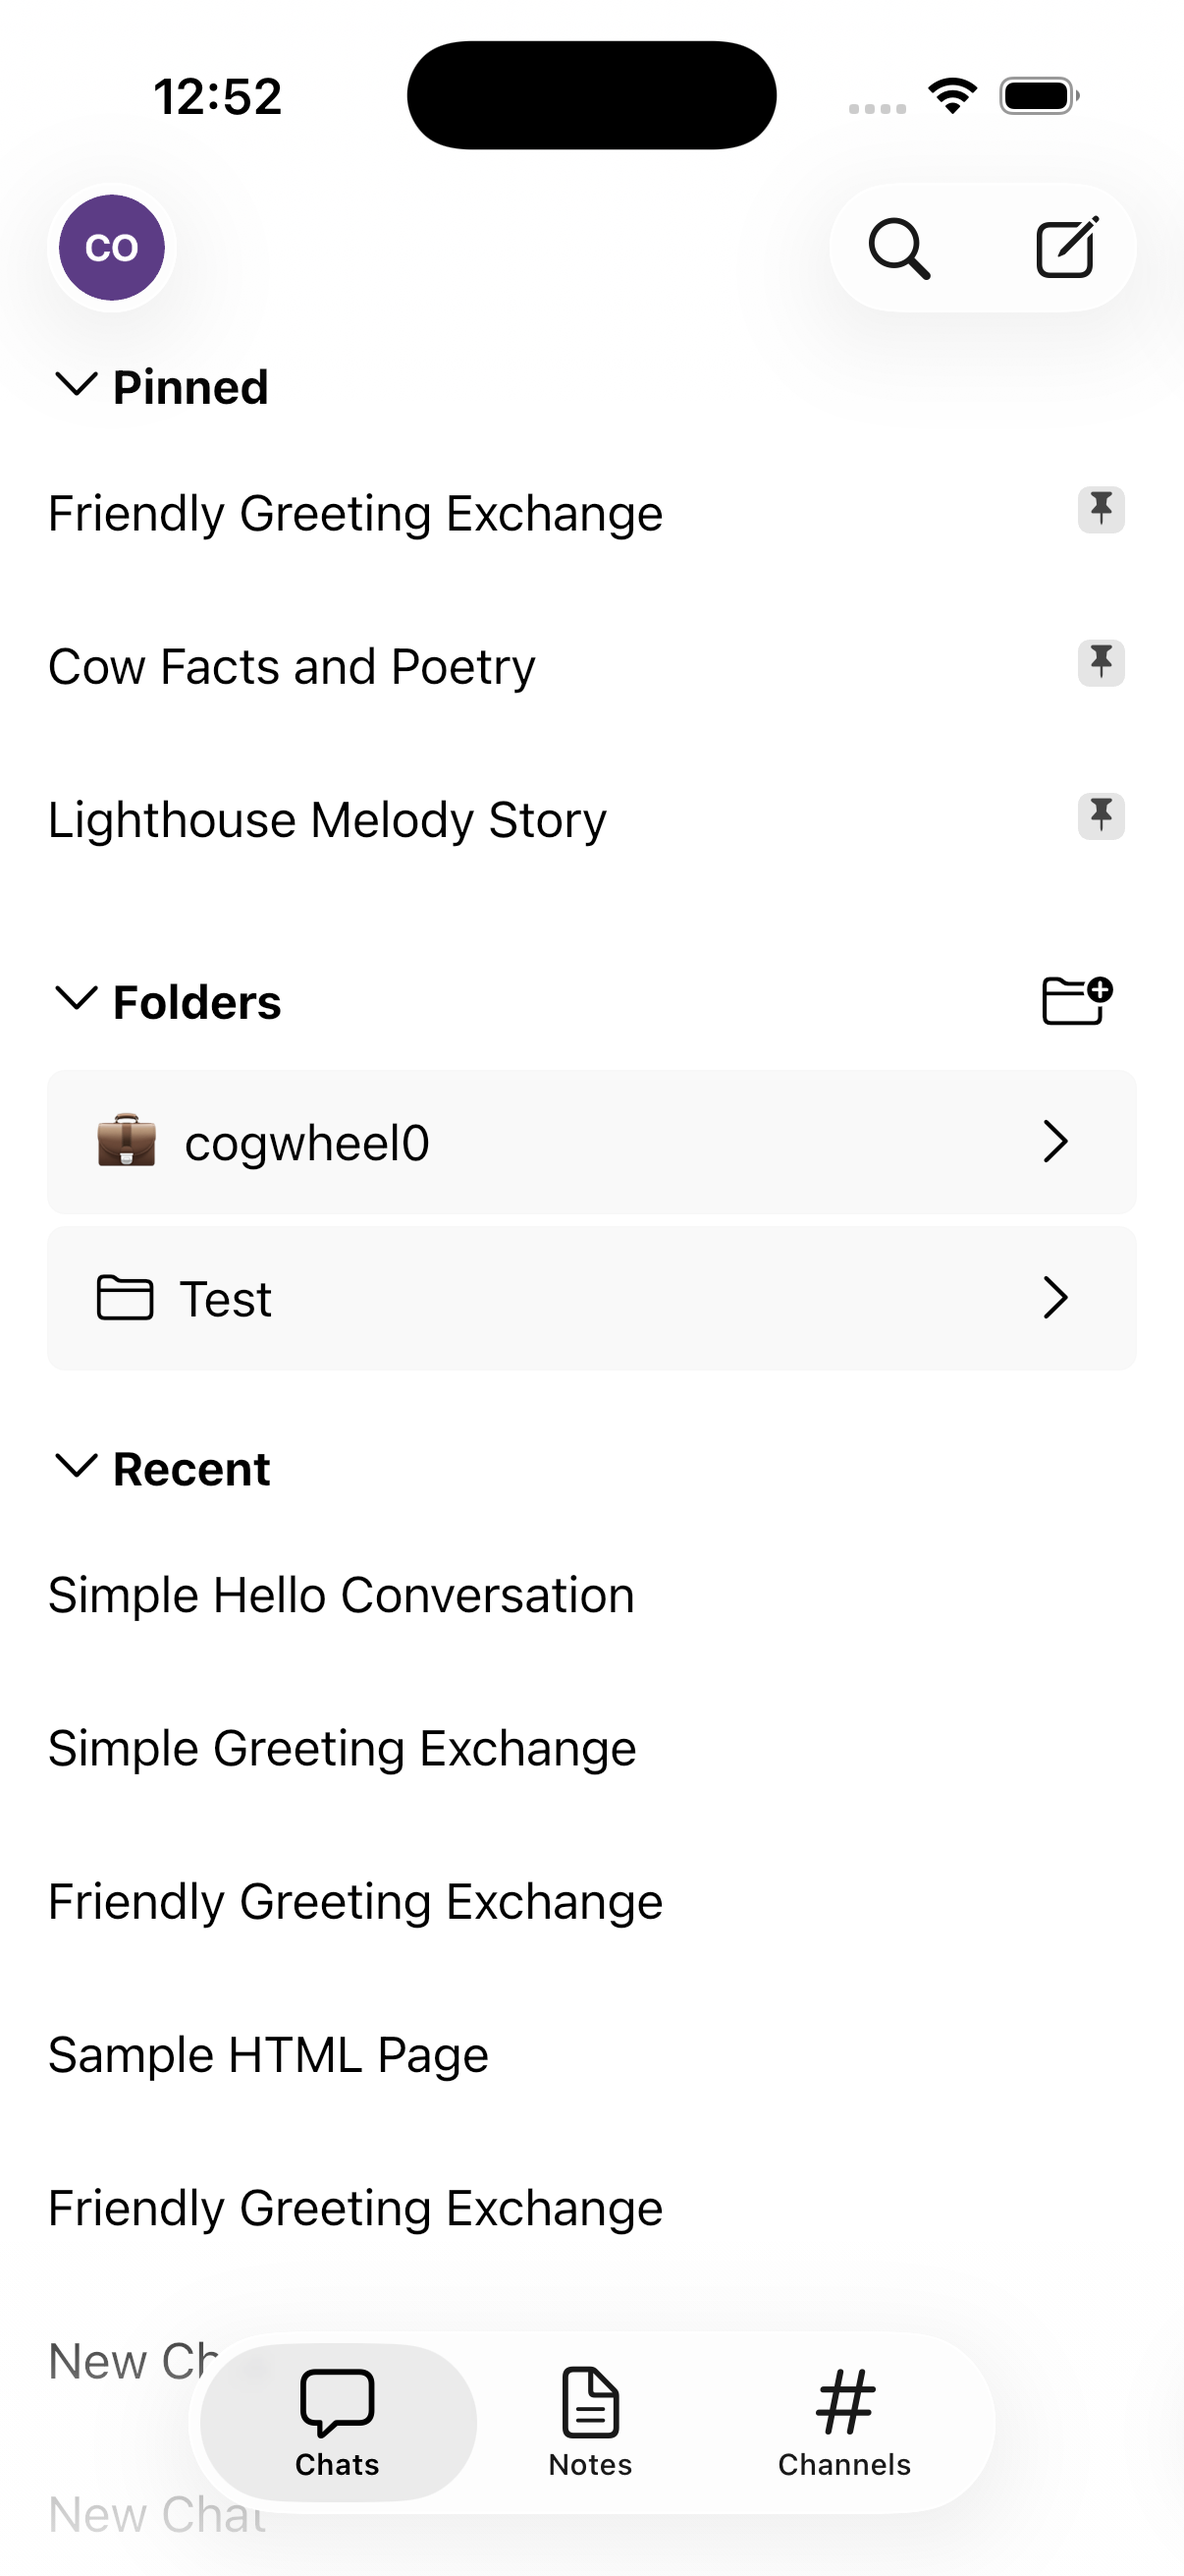
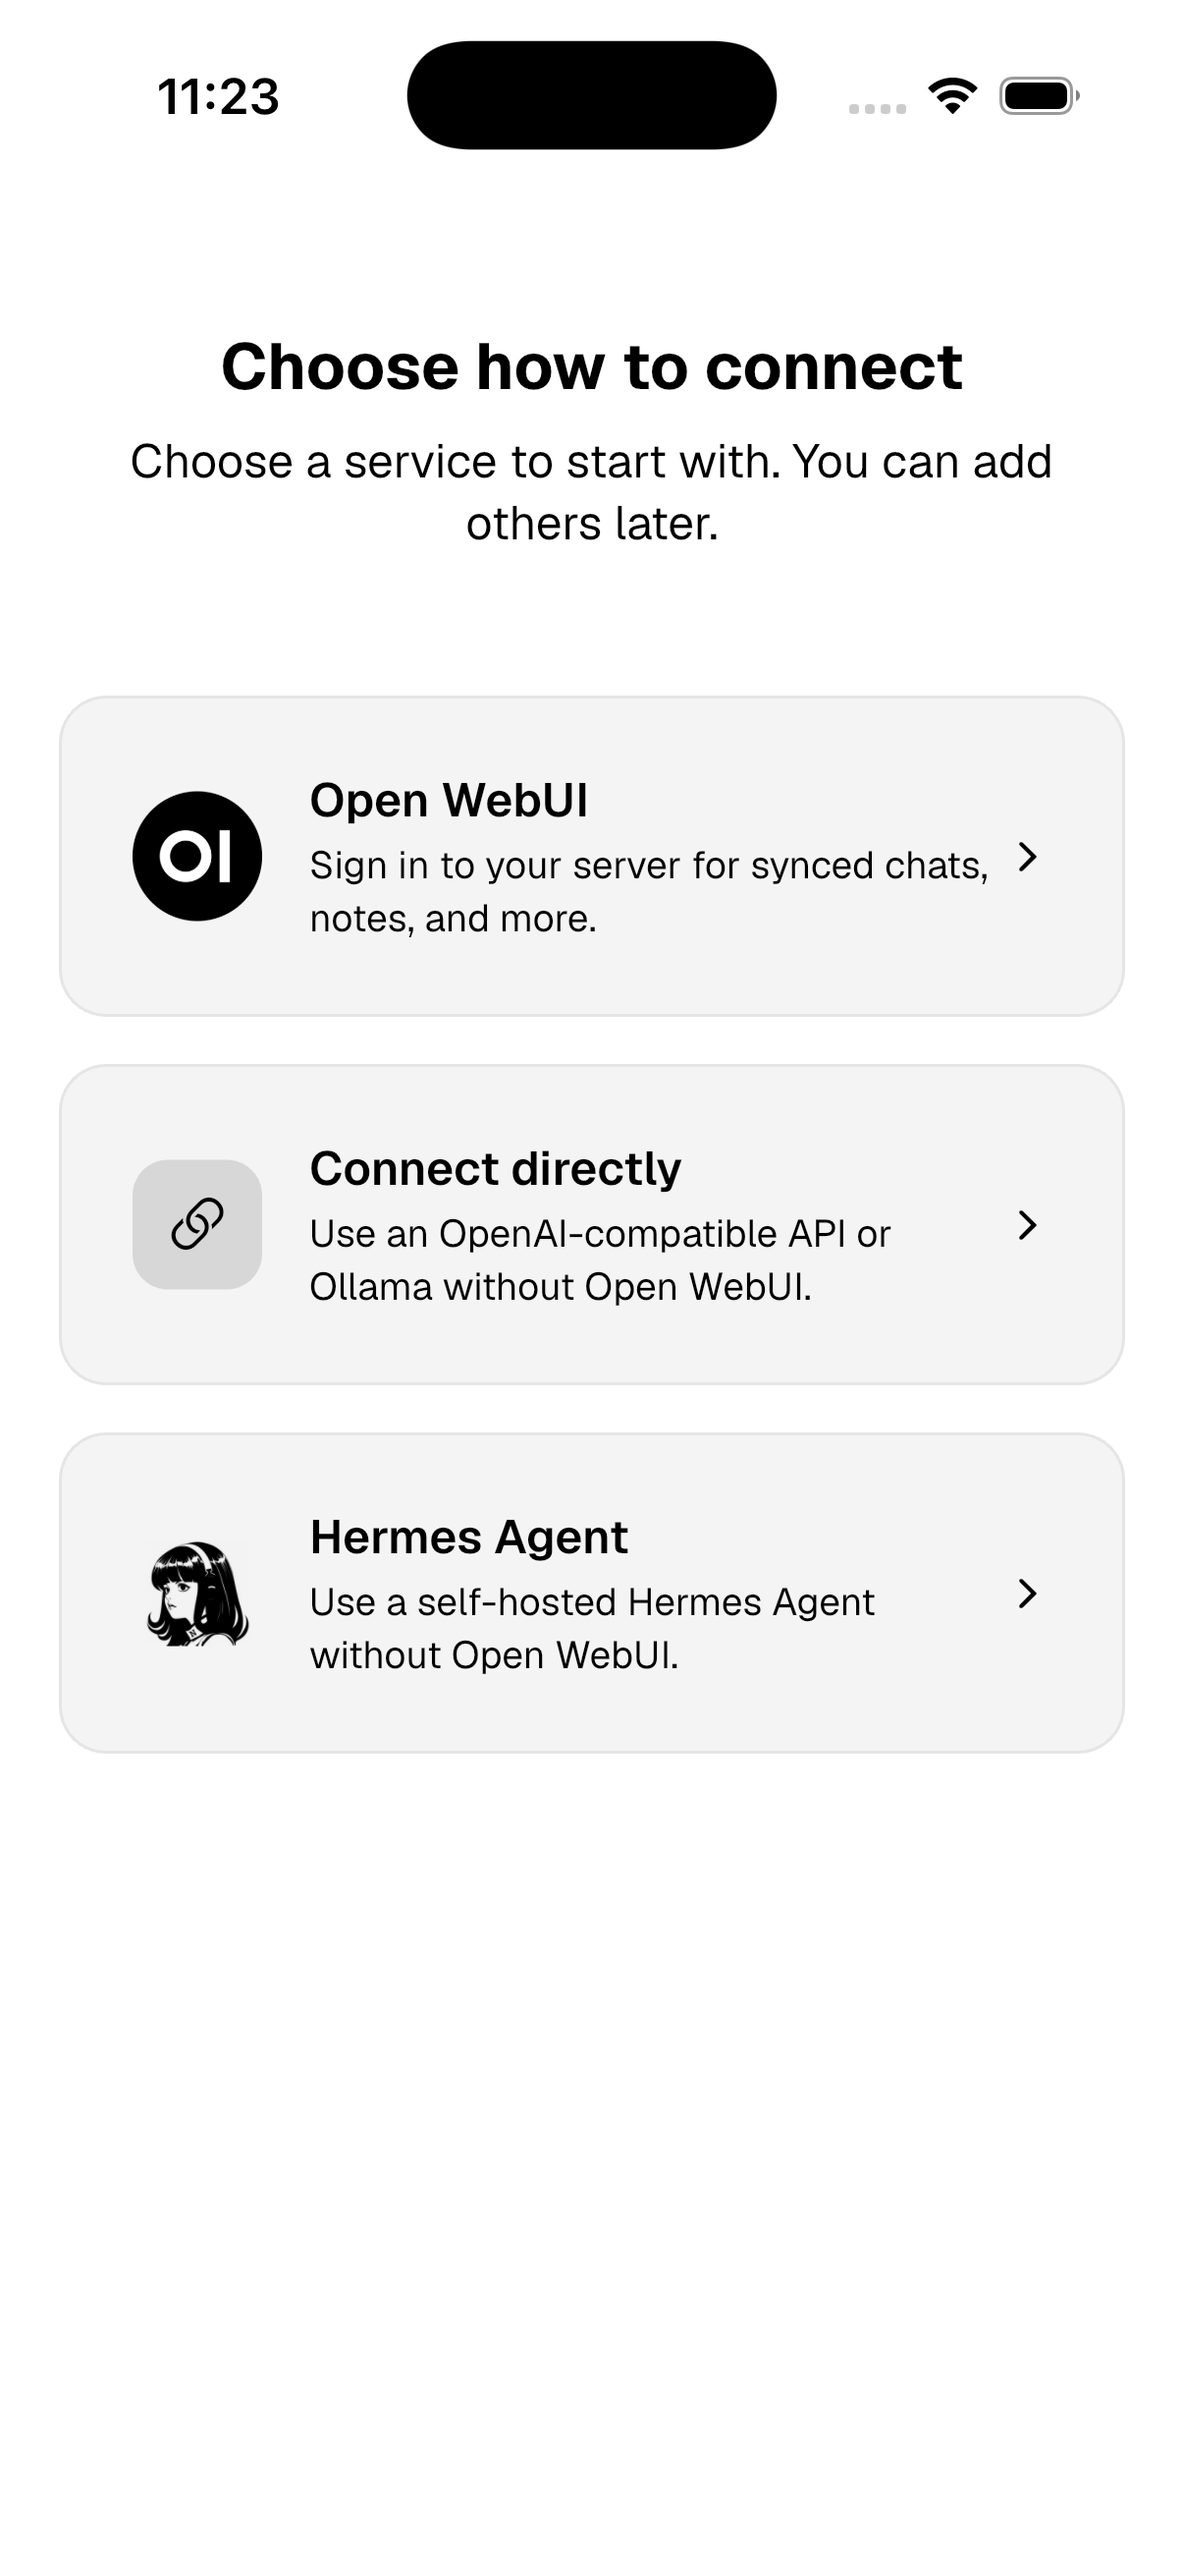
Update README with new screenshot descriptions and replace images for improved clarity

diff --git a/README.md b/README.md
@@ -127,9 +127,9 @@ exposes the capabilities your server actually reports.
 
 ## Screenshots
 
-| Chat | Sidebar | Themes | Settings |
+| Chat | Connect | Chats | Voice |
 | --- | --- | --- | --- |
-| <img src="docs/screenshots/1.png" alt="Multimodal chat with an image attachment and streaming response" width="200" /> | <img src="docs/screenshots/2.png" alt="Sidebar with pinned chats, folders, and recent conversations" width="200" /> | <img src="docs/screenshots/3.png" alt="Accent palette picker with Conduit, Claude, T3 Chat, Catppuccin, and Tangerine themes" width="200" /> | <img src="docs/screenshots/4.png" alt="Settings with appearance, chats, voice, and connection options" width="200" /> |
+| <img src="docs/screenshots/1.png" alt="Multimodal chat with an image attachment and streaming response" width="200" /> | <img src="docs/screenshots/2.png" alt="Choose Open WebUI, direct API, or Hermes Agent" width="200" /> | <img src="docs/screenshots/3.png" alt="Chat with rich replies and Ask Conduit input" width="200" /> | <img src="docs/screenshots/4.png" alt="Voice call mode listening with call controls" width="200" /> |
 
 ## What you get
 
